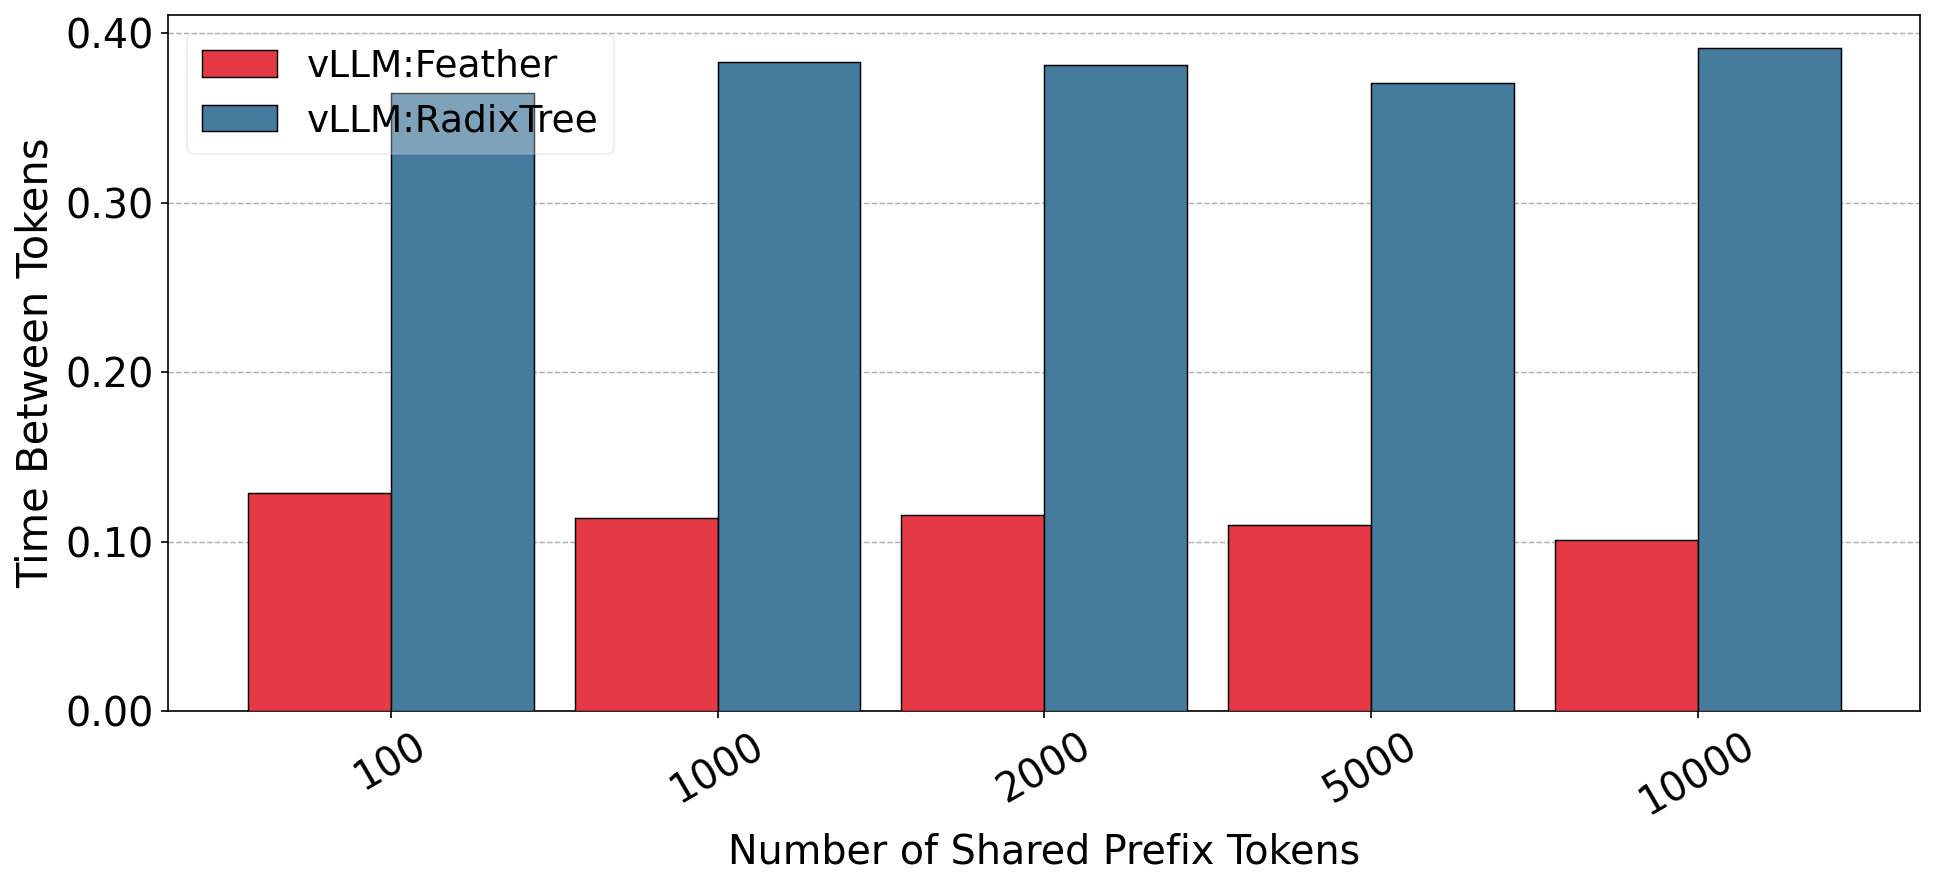
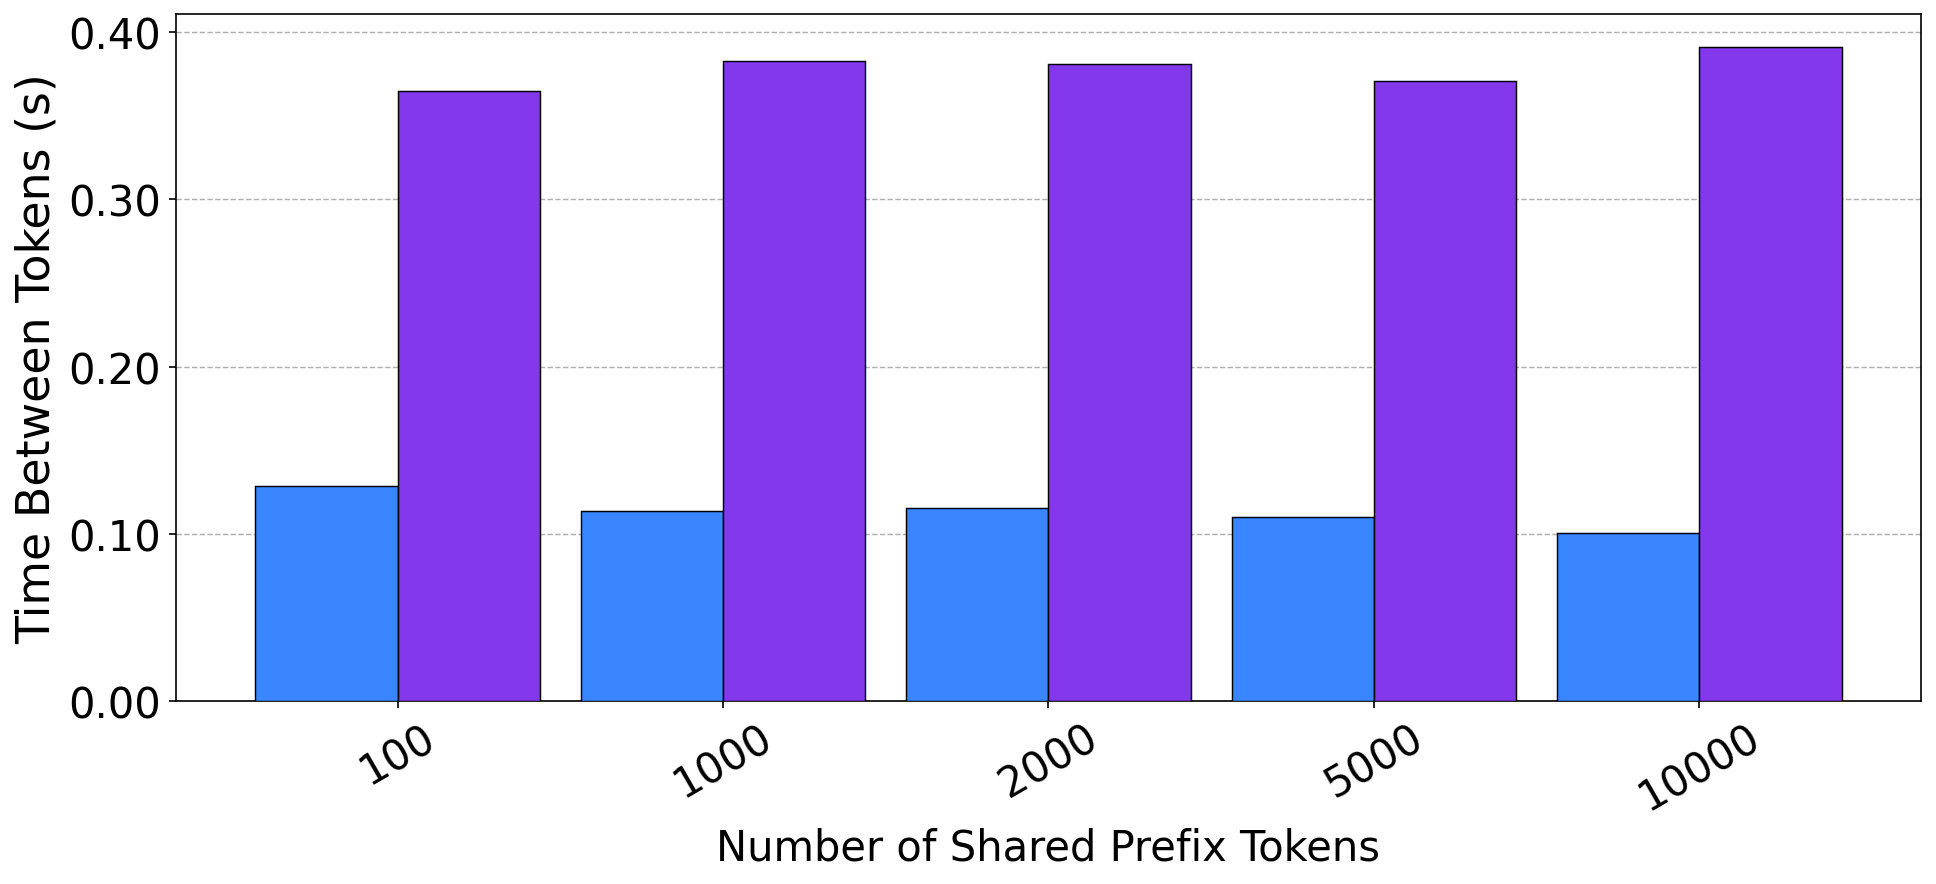
sys-per-sec-ablation

diff --git a/code/vllm/sys_prompt_tokens_logs_ablation_radix_vs_cht/plot.py b/code/vllm/sys_prompt_tokens_logs_ablation_radix_vs_cht/plot.py
@@ -116,8 +116,8 @@ for path in log_files:
 
 # ── Bar chart styling ────────────────────────────────────────────────────────
 PALETTE = {
-    "RadixTree": "#457B9D",
-    "Feather":   "#E63946",
+    "RadixTree": "#8338EC",
+    "Feather":   "#3A86FF",
 }
 
 token_sets = [set(data[label].keys()) for label in data]
@@ -162,14 +162,14 @@ def make_bar_plot(metric_key, ylabel, outpath):
             zorder=3
         )
 
-    ax.set_xlabel("Number of Shared Prefix Tokens", fontsize=19)
-    ax.set_ylabel(ylabel, fontsize=20)
+    ax.set_xlabel("Number of Shared Prefix Tokens", fontsize=20)
+    ax.set_ylabel(ylabel, fontsize=22)
     ax.set_xticks(x_centers)
     ax.set_xticklabels([str(t) for t in all_tokens], rotation=30, fontsize=19)
-    ax.tick_params(axis="y", labelsize=19)
+    ax.tick_params(axis="both", labelsize=20)
     ax.yaxis.set_major_formatter(ticker.FormatStrFormatter('%.2f'))
-
-    ax.legend(fontsize=18, framealpha=0.3)
+    if metric_key == "throughput":
+        ax.legend(fontsize=21, framealpha=0.3)
     ax.grid(True, axis="y", linewidth=0.7, linestyle="--", zorder=0)
     ax.set_ylim(bottom=0)
     plt.tight_layout()
@@ -190,7 +190,7 @@ make_bar_plot(
 
 make_bar_plot(
     "avg_diff",
-    "Time Between Tokens",
+    "Time Between Tokens (s)",
     os.path.join(OUT, "tbt_vs_sys_prompt_tokens_bar.png")
 )
 
